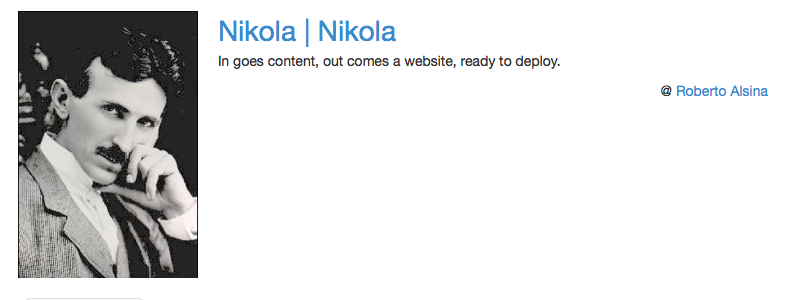
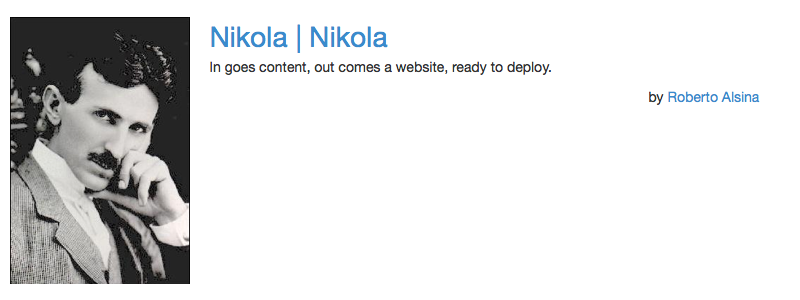
Add author by symbol as optional.

Changed region(s): [[0.0, 0.03, 0.7188, 0.96], [0.8125, 0.27, 0.9688, 0.36], [0.0312, 0.99, 0.1875, 1.0]]

diff --git a/tests/test_link_figure.py b/tests/test_link_figure.py
@@ -34,6 +34,30 @@ class TestLinkFigure(ReSTExtensionTestCase):
         self.basic_test()
         self.assertHTMLEqual(expected.strip())
 
+    def test_without_by(self):
+        # the result should be
+        expected = (
+            '<div class="link-figure">'
+            '<div class="link-figure-media">'
+            '<a class="link-figure-image" href="http://getnikola.com/" target="_blank">'
+            '<img src="http://getnikola.com/galleries/demo/tesla2_lg.jpg" alt="Nikola | Nikola" />'
+            '</a></div><div class="link-figure-content">'
+            '<a class="link-figure-title" href="http://getnikola.com/" target="_blank">Nikola | Nikola</a>'
+            '<p class="link-figure-description">In goes content, out comes a website, ready to deploy.</p>'
+            '<p class="link-figure-author"><a href="http://ralsina.me/" target="_blank">Roberto Alsina</a>'
+            '</p></div></div>'
+        )
+        self.sample = """.. link_figure:: http://getnikola.com/
+            :title: Nikola | Nikola
+            :description: In goes content, out comes a website, ready to deploy.
+            :class: link-figure
+            :image_url: http://getnikola.com/galleries/demo/tesla2_lg.jpg
+            :author: Roberto Alsina
+            :author_url: http://ralsina.me/
+        """
+        self.basic_test()
+        self.assertHTMLEqual(expected.strip())
+
     def test_full(self):
         # the result should be
         expected = (
@@ -44,7 +68,7 @@ class TestLinkFigure(ReSTExtensionTestCase):
             '</a></div><div class="link-figure-content">'
             '<a class="link-figure-title" href="http://getnikola.com/" target="_blank">Nikola | Nikola</a>'
             '<p class="link-figure-description">In goes content, out comes a website, ready to deploy.</p>'
-            '<p class="link-figure-author">@ <a href="http://ralsina.me/" target="_blank">Roberto Alsina</a>'
+            '<p class="link-figure-author">by <a href="http://ralsina.me/" target="_blank">Roberto Alsina</a>'
             '</p></div></div>'
         )
         self.sample = """.. link_figure:: http://getnikola.com/
@@ -54,6 +78,7 @@ class TestLinkFigure(ReSTExtensionTestCase):
             :image_url: http://getnikola.com/galleries/demo/tesla2_lg.jpg
             :author: Roberto Alsina
             :author_url: http://ralsina.me/
+            :author_by: by
         """
         self.basic_test()
         self.assertHTMLEqual(expected.strip())

diff --git a/plugins/link_figure/link_figure.py b/plugins/link_figure/link_figure.py
@@ -56,11 +56,11 @@ CODE_DESCRIPTION = (u"""<p class="link-figure-description">
 </p>""")
 
 CODE_AUTHOR = (u"""<p class="link-figure-author">
-@ {author}
+{author_by}{author}
 </p>""")
 
 CODE_AUTHOR_URL = (u"""<p class="link-figure-author">
-@ <a href="{author_url}" target="_blank">
+{author_by}<a href="{author_url}" target="_blank">
 {author}
 </a></p>""")
 
@@ -88,6 +88,7 @@ class LinkFigure(Directive):
                 :image_url: url image
                 :author: url domain or author
                 :author_url: author url
+                :author_by: author by symbol
    """
 
     has_content = False
@@ -100,6 +101,7 @@ class LinkFigure(Directive):
         'image_url': directives.unchanged,
         'author': directives.unchanged,
         'author_url': directives.unchanged,
+        'author_by': directives.unchanged,
     }
 
     def run(self):
@@ -112,6 +114,7 @@ class LinkFigure(Directive):
             'image_url': self.options.get('image_url', ''),
             'author': self.options.get('author', ''),
             'author_url': self.options.get('author_url', ''),
+            'author_by': self.options.get('author_by', ''),
         }
         if not options['title']:
             if options['url'].endswith('/'):
@@ -123,6 +126,8 @@ class LinkFigure(Directive):
             return [nodes.raw('', CODE_URL_BASIC.format(**options), format='html')]
         if options['image_url']:
             options['image_url'] = CODE_IMAGE.format(**options)
+        if options['author_by']:
+            options['author_by'] = options['author_by'].strip() + ' '
         if options['author'] and options['author_url']:
             options['author'] = CODE_AUTHOR_URL.format(**options)
         elif options['author']:

diff --git a/plugins/link_figure/README.md b/plugins/link_figure/README.md
@@ -9,6 +9,7 @@ Usage::
 	    :image_url:
 	    :author:
 	    :author_url:
+	    :author_by:
 
 This should embed the link, with title, description and image.
 
@@ -25,6 +26,7 @@ This reStructuredText document:
         :image_url: http://getnikola.com/galleries/demo/tesla2_lg.jpg
         :author: Roberto Alsina
         :author_url: http://ralsina.me/
+        :author_by: by
 ```
 
 will result in:
@@ -40,7 +42,7 @@ will result in:
 	    <div class="link-figure-content">
 		    <a class="link-figure-title" href="http://getnikola.com/" target="_blank">Nikola | Nikola</a>
 		    <p class="link-figure-description">In goes content, out comes a website, ready to deploy.</p>
-		    <p class="link-figure-author">@ <a href="http://ralsina.me/" target="_blank">Roberto Alsina</a></p>
+		    <p class="link-figure-author">by <a href="http://ralsina.me/" target="_blank">Roberto Alsina</a></p>
 	    </div>
 	</div>
 ```
